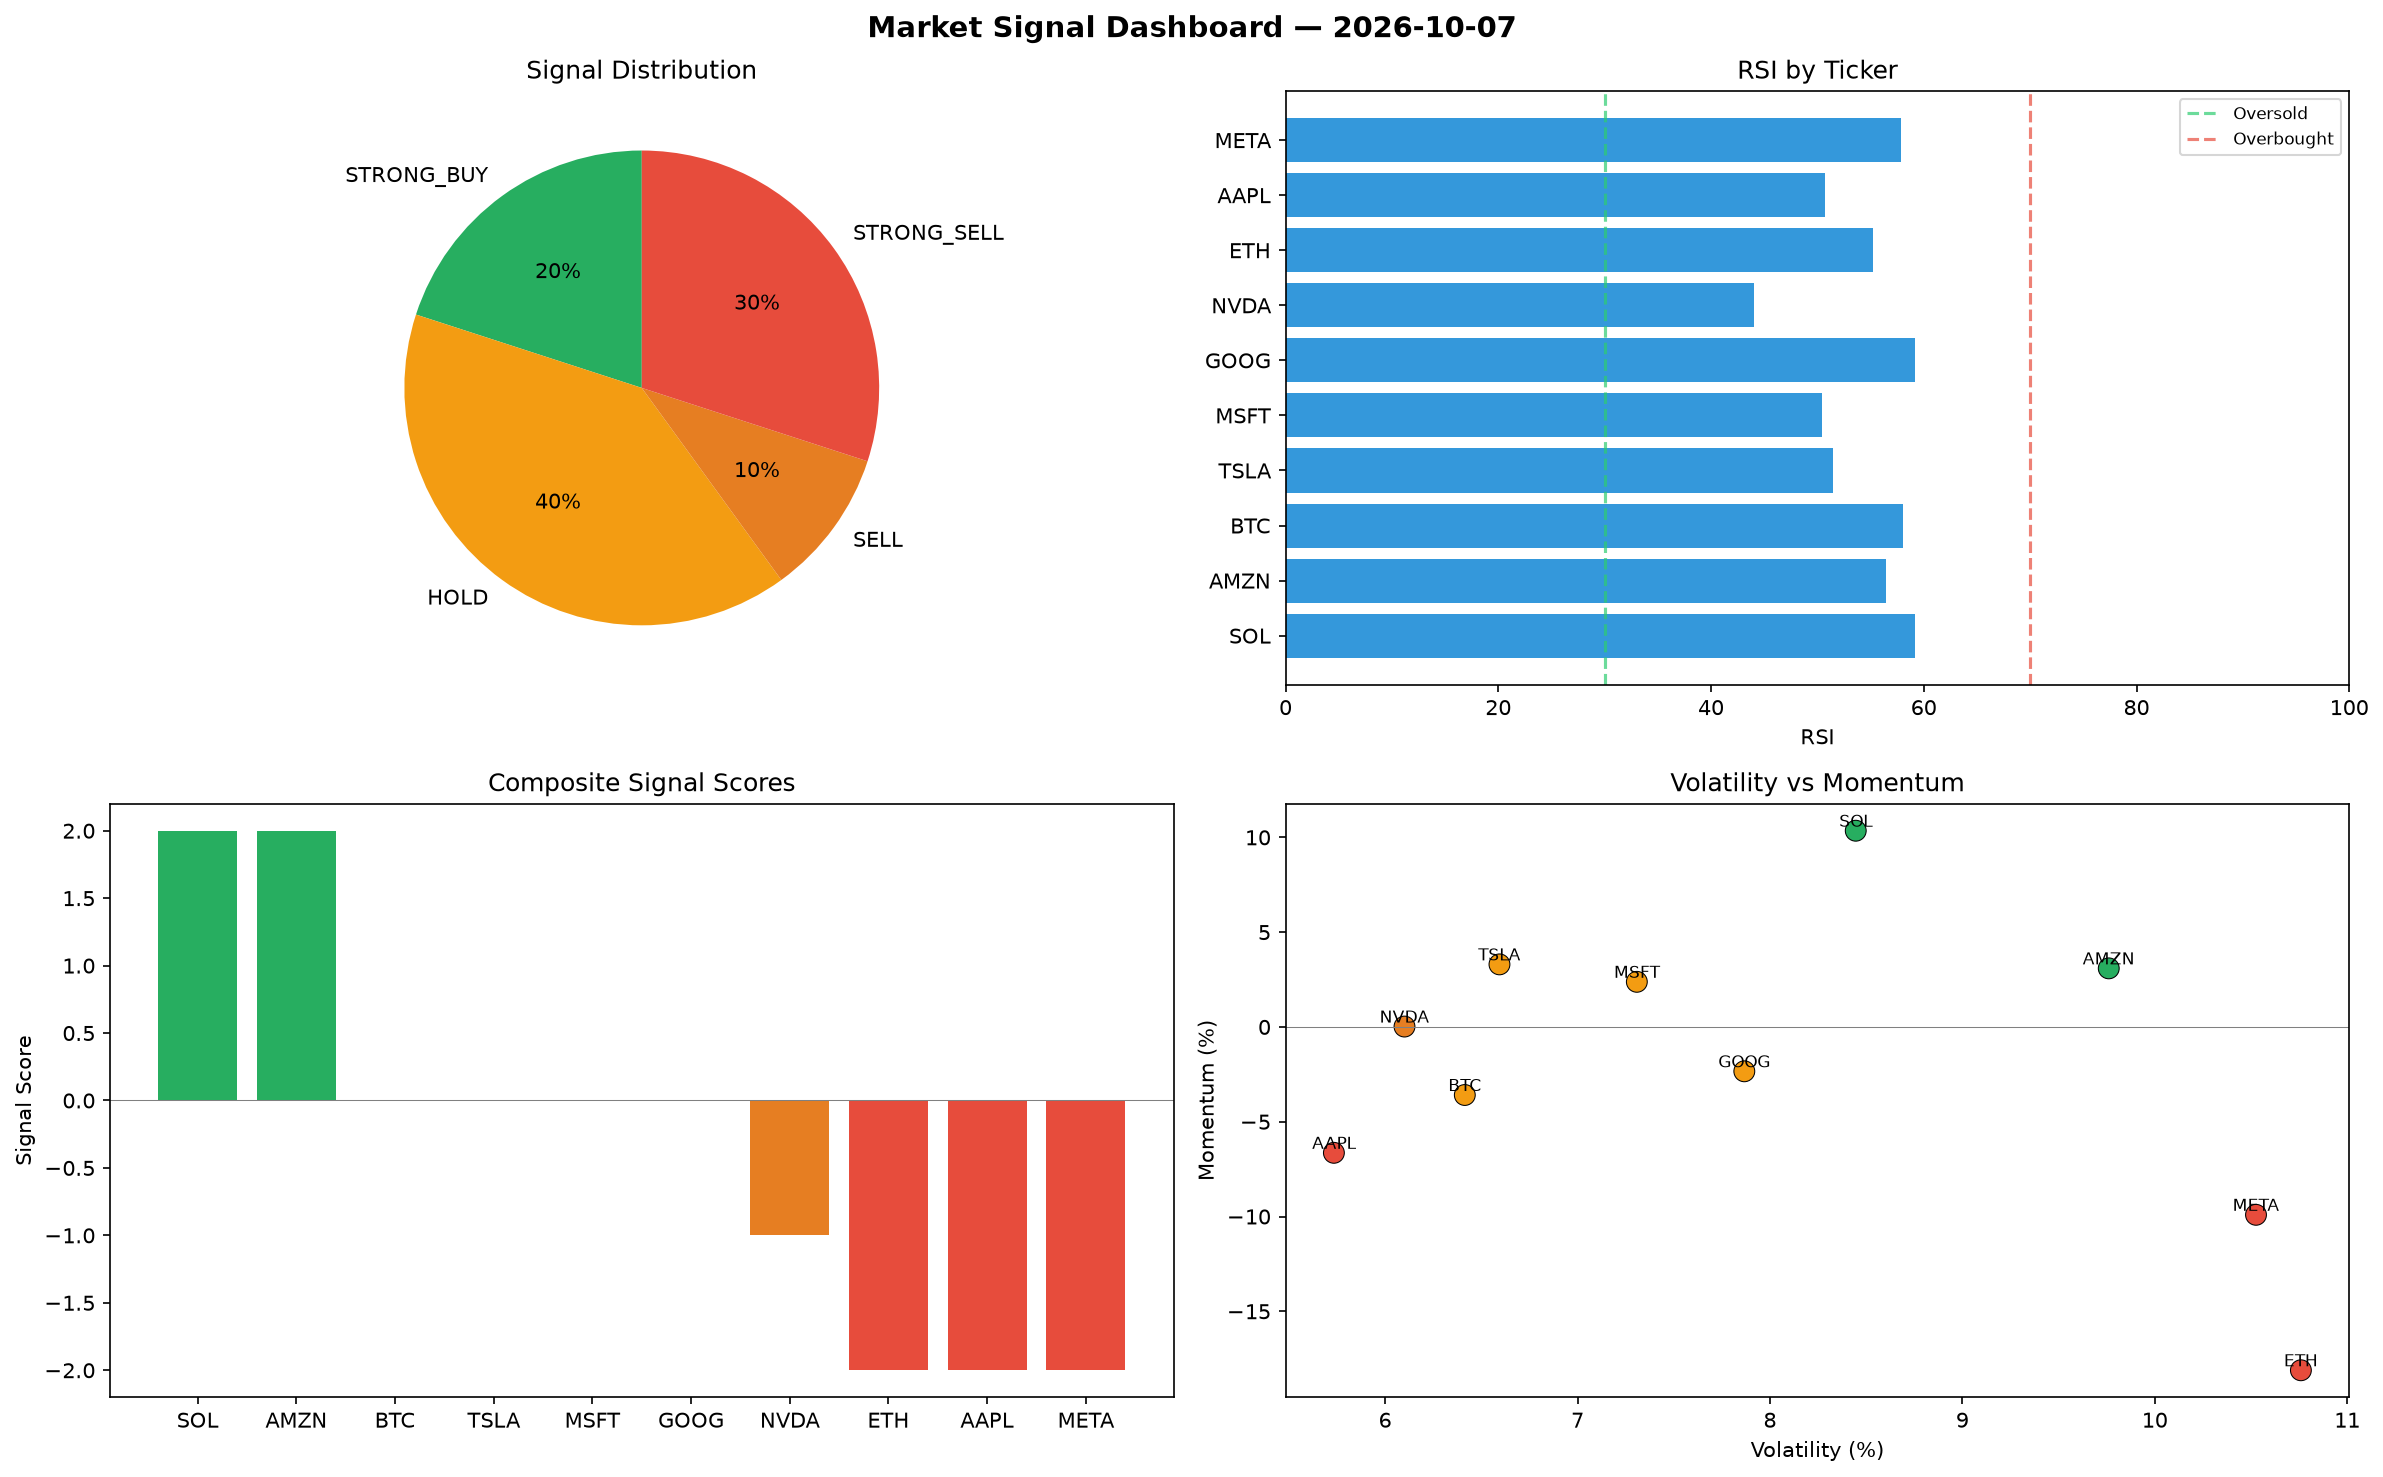
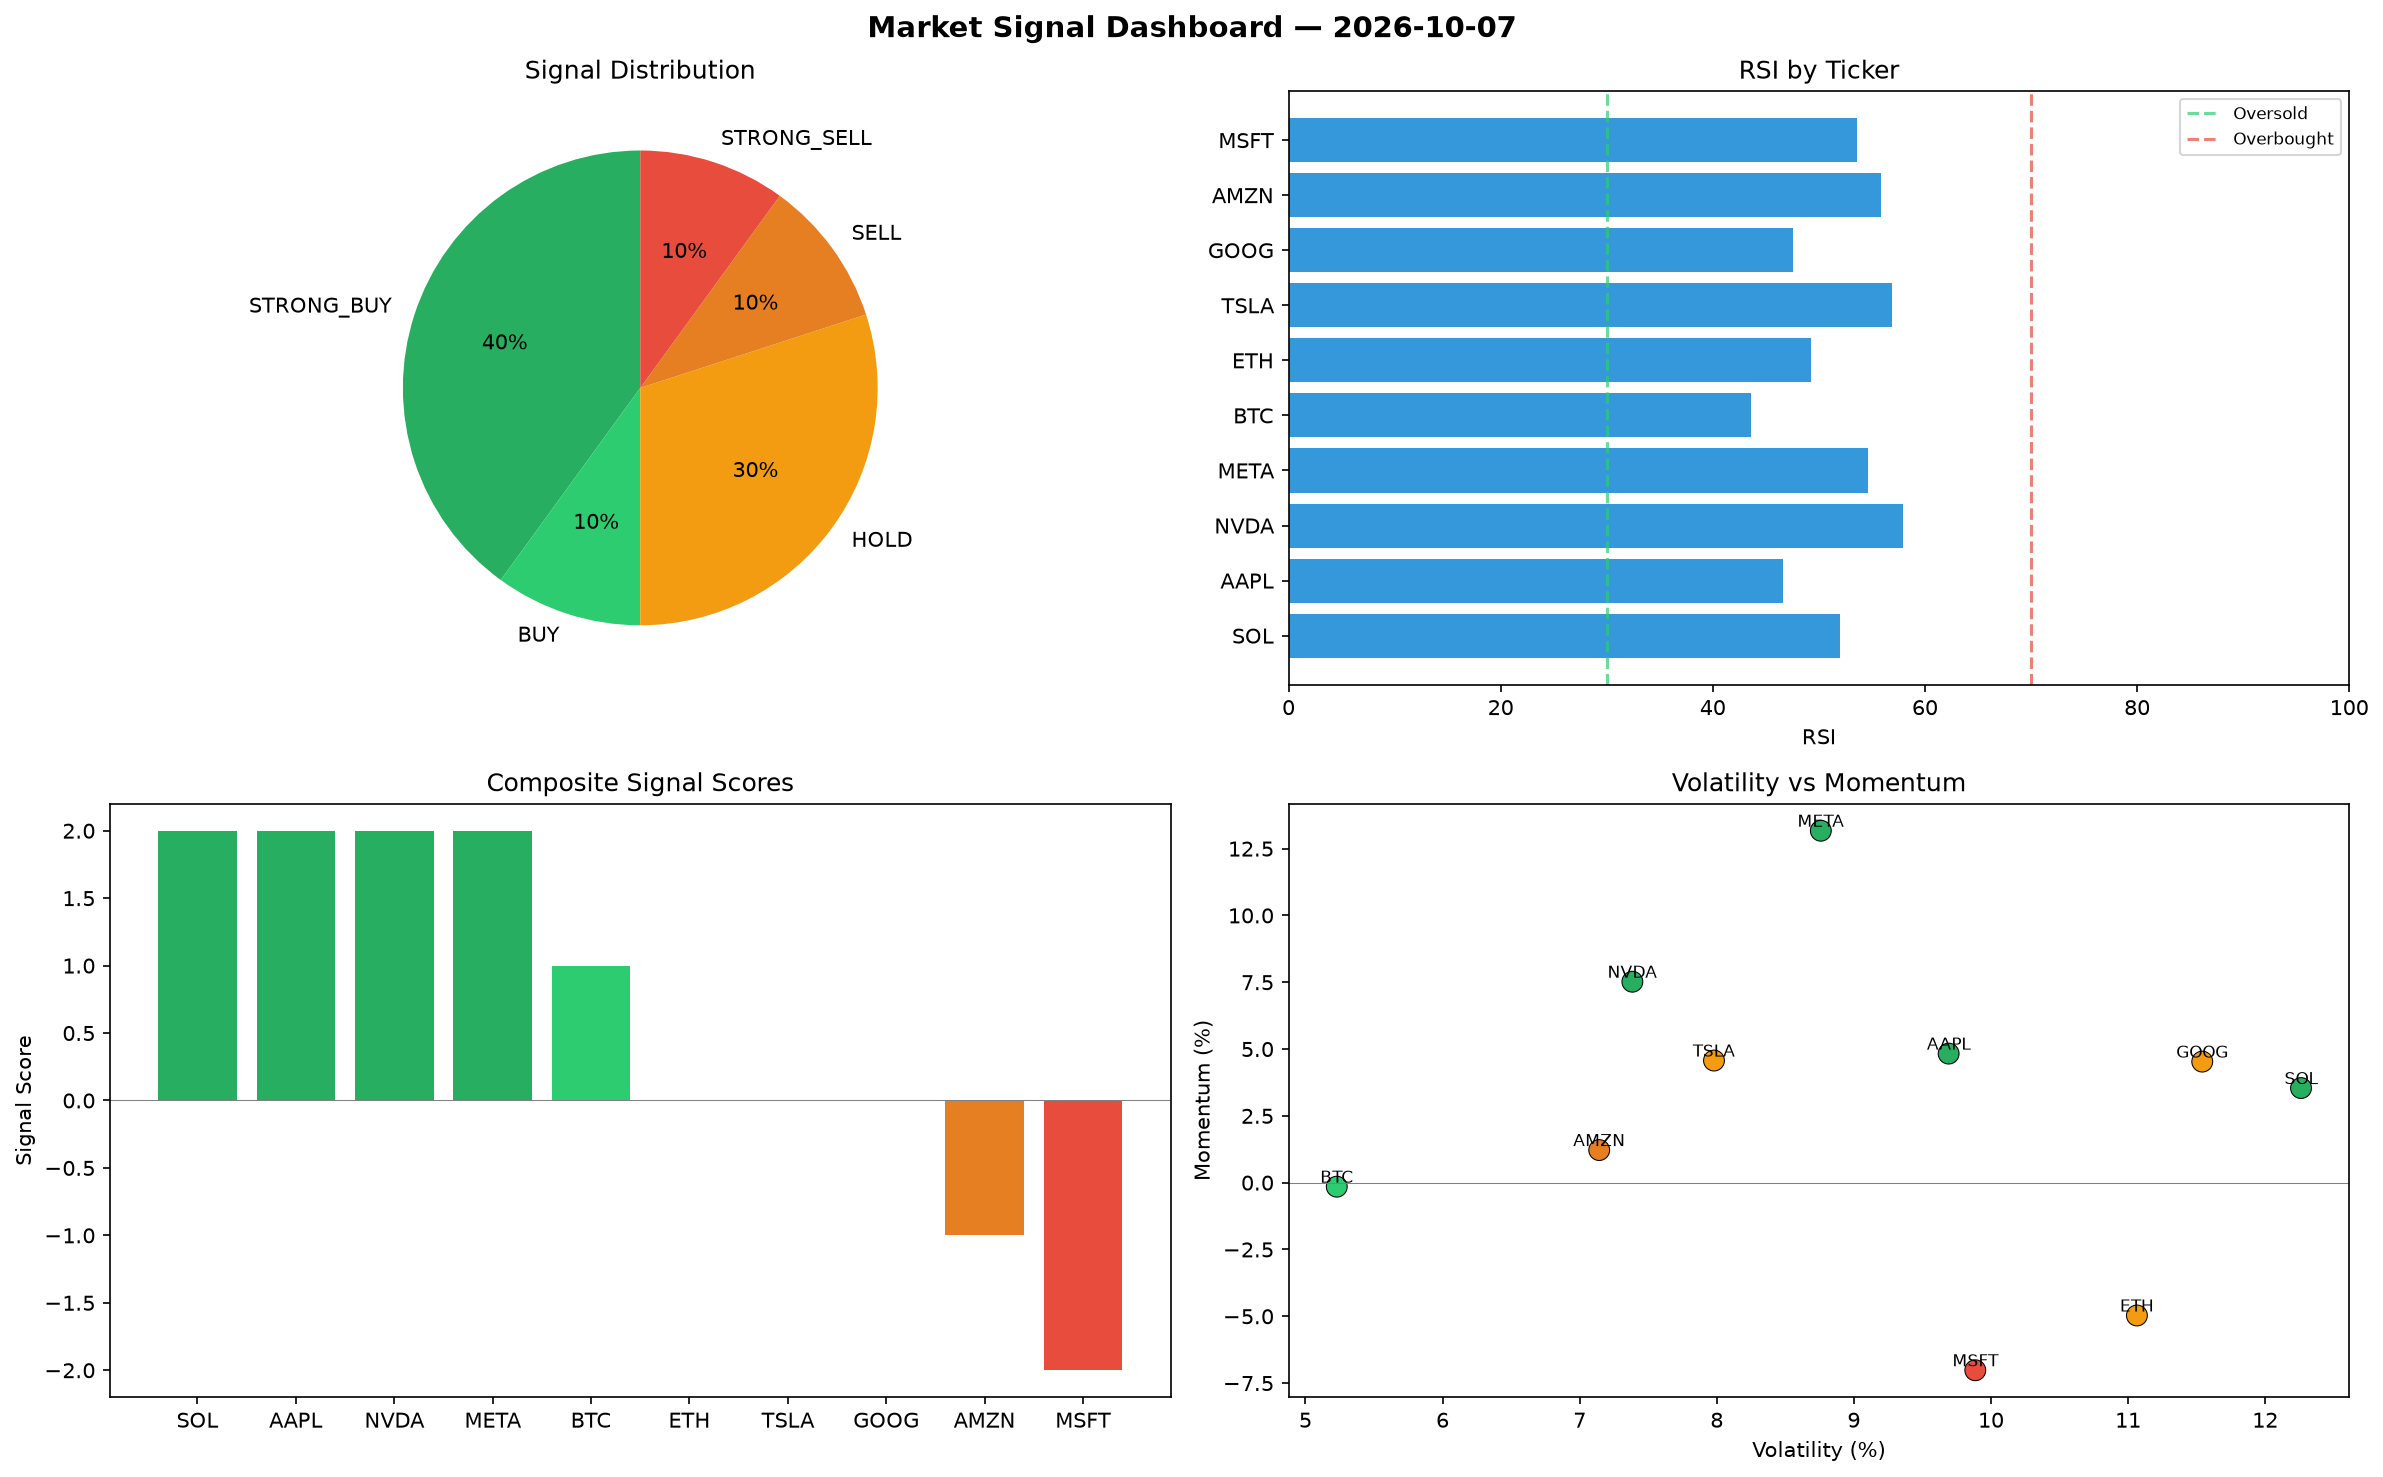
automated-bots: market signals 2026-10-07T15:40

diff --git a/logs/2026-10-07.md b/logs/2026-10-07.md
@@ -1,6 +1,6 @@
 # Market Signal Report — 2026-10-07
 
-**Run ID:** `dda57e539b` | **Buy:** 2 | **Sell:** 4 | **Hold:** 4
+**Run ID:** `7086a0b9ce` | **Buy:** 5 | **Sell:** 2 | **Hold:** 3
 
 ![Dashboard](2026-10-07_dashboard.png)
 
@@ -8,28 +8,28 @@
 
 | Ticker | Price | Signal | Score | RSI | Momentum | Confidence |
 |--------|-------|--------|-------|-----|----------|------------|
-| SOL | $390.76 | **STRONG_BUY** | 2 | 59.18 | 0.1035 | 0.5 |
-| AMZN | $3944.01 | **STRONG_BUY** | 2 | 56.43 | 0.0309 | 0.5 |
-| BTC | $3664.45 | **HOLD** | 0 | 58.02 | -0.0359 | 0.0 |
-| TSLA | $2597.82 | **HOLD** | 0 | 51.46 | 0.033 | 0.0 |
-| MSFT | $32.29 | **HOLD** | 0 | 50.42 | 0.0238 | 0.0 |
-| GOOG | $1564.26 | **HOLD** | 0 | 59.14 | -0.0234 | 0.0 |
-| NVDA | $3103.49 | **SELL** | -1 | 44.04 | 0.0002 | 0.25 |
-| ETH | $1489.54 | **STRONG_SELL** | -2 | 55.26 | -0.1811 | 0.5 |
-| AAPL | $1141.15 | **STRONG_SELL** | -2 | 50.69 | -0.0664 | 0.5 |
-| META | $1471.46 | **STRONG_SELL** | -2 | 57.9 | -0.0991 | 0.5 |
+| SOL | $3670.69 | **STRONG_BUY** | 2 | 51.97 | 0.0354 | 0.5 |
+| AAPL | $2533.76 | **STRONG_BUY** | 2 | 46.6 | 0.0483 | 0.5 |
+| NVDA | $452.94 | **STRONG_BUY** | 2 | 57.91 | 0.0752 | 0.5 |
+| META | $5124.66 | **STRONG_BUY** | 2 | 54.63 | 0.1317 | 0.5 |
+| BTC | $2201.56 | **BUY** | 1 | 43.56 | -0.0015 | 0.25 |
+| ETH | $2015.59 | **HOLD** | 0 | 49.28 | -0.0497 | 0.0 |
+| TSLA | $2565.49 | **HOLD** | 0 | 56.92 | 0.0457 | 0.0 |
+| GOOG | $3321.24 | **HOLD** | 0 | 47.56 | 0.0453 | 0.0 |
+| AMZN | $2140.22 | **SELL** | -1 | 55.85 | 0.0122 | 0.25 |
+| MSFT | $1954.27 | **STRONG_SELL** | -2 | 53.56 | -0.0702 | 0.5 |
 
 ## Delta vs Yesterday
 
 | Ticker | Today | Yesterday | Price Change | Signal Changed |
 |--------|-------|-----------|-------------|----------------|
-| SOL | STRONG_BUY | HOLD | 📉 -78.79% | ⚠ YES |
-| AMZN | STRONG_BUY | HOLD | 📉 -5.93% | ⚠ YES |
-| BTC | HOLD | SELL | 📉 -8.81% | ⚠ YES |
-| TSLA | HOLD | HOLD | 📉 -24.55% | — |
-| MSFT | HOLD | STRONG_SELL | 📉 -95.78% | ⚠ YES |
-| GOOG | HOLD | HOLD | 📈 1052.73% | — |
-| NVDA | SELL | HOLD | 📉 -10.92% | ⚠ YES |
-| ETH | STRONG_SELL | SELL | 📉 -68.4% | ⚠ YES |
-| AAPL | STRONG_SELL | STRONG_BUY | 📉 -71.38% | ⚠ YES |
-| META | STRONG_SELL | STRONG_SELL | 📉 -65.65% | — |
+| SOL | STRONG_BUY | HOLD | 📈 99.25% | ⚠ YES |
+| AAPL | STRONG_BUY | STRONG_BUY | 📉 -36.46% | — |
+| NVDA | STRONG_BUY | HOLD | 📉 -87.0% | ⚠ YES |
+| META | STRONG_BUY | STRONG_SELL | 📈 19.63% | ⚠ YES |
+| BTC | BUY | SELL | 📉 -45.21% | ⚠ YES |
+| ETH | HOLD | SELL | 📉 -57.24% | ⚠ YES |
+| TSLA | HOLD | HOLD | 📉 -25.49% | — |
+| GOOG | HOLD | HOLD | 📈 2347.49% | — |
+| AMZN | SELL | HOLD | 📉 -48.95% | ⚠ YES |
+| MSFT | STRONG_SELL | STRONG_SELL | 📈 155.18% | — |
